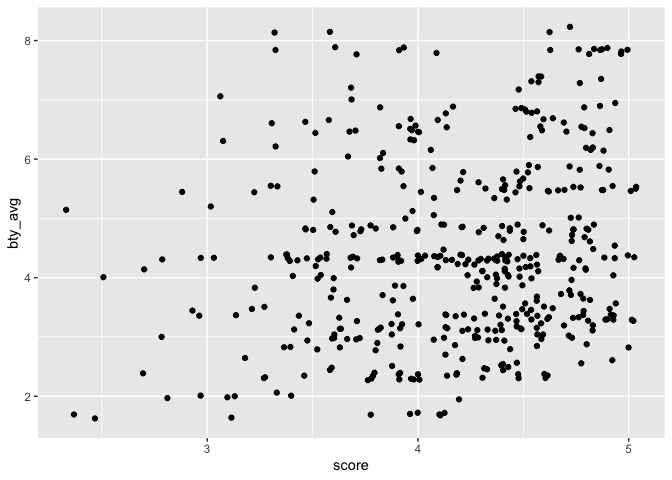
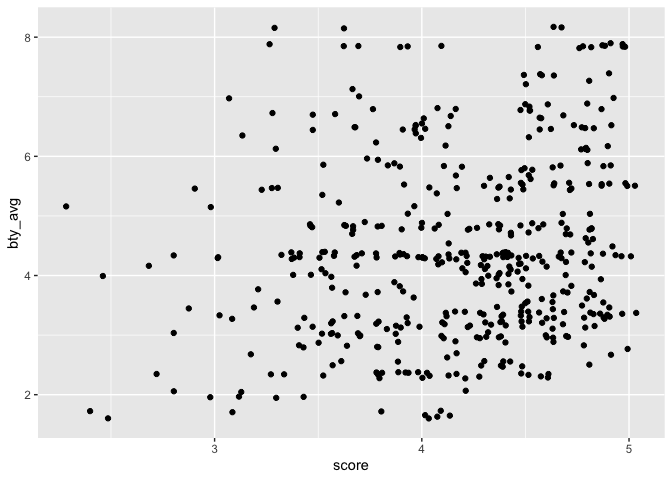
Fixing so that the github grades correctly

diff --git a/lab-10.md b/lab-10.md
@@ -324,3 +324,104 @@ summary(m_bty_cls_credit)
     ## Residual standard error: 0.5329 on 461 degrees of freedom
     ## Multiple R-squared:  0.04202,    Adjusted R-squared:  0.03994 
     ## F-statistic: 20.22 on 1 and 461 DF,  p-value: 8.751e-06
+
+### Exercises 3 & 4
+
+The number of students who did the evaluation, cls_did_evals, shouldn’t
+be included in the model because this is directly correlated with the
+number of students in the class and the percentage of students that
+completed the evaluations. This would violate the assumptions of a
+regression.
+
+``` r
+full_model_evals <- lm(score ~ rank + ethnicity + gender + language + age + cls_perc_eval + cls_students + cls_level + cls_profs + cls_credits + bty_avg, data = evals)
+summary(full_model_evals)
+```
+
+    ## 
+    ## Call:
+    ## lm(formula = score ~ rank + ethnicity + gender + language + age + 
+    ##     cls_perc_eval + cls_students + cls_level + cls_profs + cls_credits + 
+    ##     bty_avg, data = evals)
+    ## 
+    ## Residuals:
+    ##      Min       1Q   Median       3Q      Max 
+    ## -1.84482 -0.31367  0.08559  0.35732  1.10105 
+    ## 
+    ## Coefficients:
+    ##                         Estimate Std. Error t value Pr(>|t|)    
+    ## (Intercept)            3.5305036  0.2408200  14.660  < 2e-16 ***
+    ## ranktenure track      -0.1070121  0.0820250  -1.305 0.192687    
+    ## ranktenured           -0.0450371  0.0652185  -0.691 0.490199    
+    ## ethnicitynot minority  0.1869649  0.0775329   2.411 0.016290 *  
+    ## gendermale             0.1786166  0.0515346   3.466 0.000579 ***
+    ## languagenon-english   -0.1268254  0.1080358  -1.174 0.241048    
+    ## age                   -0.0066498  0.0030830  -2.157 0.031542 *  
+    ## cls_perc_eval          0.0056996  0.0015514   3.674 0.000268 ***
+    ## cls_students           0.0004455  0.0003585   1.243 0.214596    
+    ## cls_levelupper         0.0187105  0.0555833   0.337 0.736560    
+    ## cls_profssingle       -0.0085751  0.0513527  -0.167 0.867458    
+    ## cls_creditsone credit  0.5087427  0.1170130   4.348  1.7e-05 ***
+    ## bty_avg                0.0612651  0.0166755   3.674 0.000268 ***
+    ## ---
+    ## Signif. codes:  0 '***' 0.001 '**' 0.01 '*' 0.05 '.' 0.1 ' ' 1
+    ## 
+    ## Residual standard error: 0.504 on 450 degrees of freedom
+    ## Multiple R-squared:  0.1635, Adjusted R-squared:  0.1412 
+    ## F-statistic: 7.331 on 12 and 450 DF,  p-value: 2.406e-12
+
+### Exercise 5
+
+``` r
+full_model_evals <- lm(score ~ rank + ethnicity + gender + language + age + cls_perc_eval + cls_students + cls_level + cls_profs + cls_credits + bty_avg, data = evals)
+m_best <- stats::step(full_model_evals, direction = "backward")
+summary(m_best)
+```
+
+### Exercise 6
+
+Non-minority professors score about 0.2 points higher than minority
+professors. For every one unit increase in age, evaluation score
+decreases by 0.01 points.
+
+``` r
+m_best_fit <- lm(score ~ ethnicity + gender + language + age + cls_perc_eval + cls_credits + bty_avg, data = evals)
+summary(m_best_fit)
+```
+
+    ## 
+    ## Call:
+    ## lm(formula = score ~ ethnicity + gender + language + age + cls_perc_eval + 
+    ##     cls_credits + bty_avg, data = evals)
+    ## 
+    ## Residuals:
+    ##     Min      1Q  Median      3Q     Max 
+    ## -1.9067 -0.3103  0.0849  0.3712  1.0611 
+    ## 
+    ## Coefficients:
+    ##                        Estimate Std. Error t value Pr(>|t|)    
+    ## (Intercept)            3.446967   0.203191  16.964  < 2e-16 ***
+    ## ethnicitynot minority  0.204710   0.074710   2.740 0.006384 ** 
+    ## gendermale             0.184780   0.049889   3.704 0.000238 ***
+    ## languagenon-english   -0.161463   0.103213  -1.564 0.118427    
+    ## age                   -0.005008   0.002606  -1.922 0.055289 .  
+    ## cls_perc_eval          0.005094   0.001438   3.543 0.000436 ***
+    ## cls_creditsone credit  0.515065   0.104860   4.912 1.26e-06 ***
+    ## bty_avg                0.064996   0.016327   3.981 7.99e-05 ***
+    ## ---
+    ## Signif. codes:  0 '***' 0.001 '**' 0.01 '*' 0.05 '.' 0.1 ' ' 1
+    ## 
+    ## Residual standard error: 0.503 on 455 degrees of freedom
+    ## Multiple R-squared:  0.1576, Adjusted R-squared:  0.1446 
+    ## F-statistic: 12.16 on 7 and 455 DF,  p-value: 2.879e-14
+
+### Exercises 7 & 8
+
+At the University of Texas at Austin, a high evaluation score would be
+associated with a professor who teaches an attractive white, male
+professor and teaches a one credit class. I would only feel comfortable
+generalizing this conclusion because there is a lot of research that
+backs up at least the idea that minority professors, specifically people
+of color and women, are evaluated less favorably than their white male
+counterparts. However, I wonder if this would look different at a
+minority-serving institution or a historically black college/university.